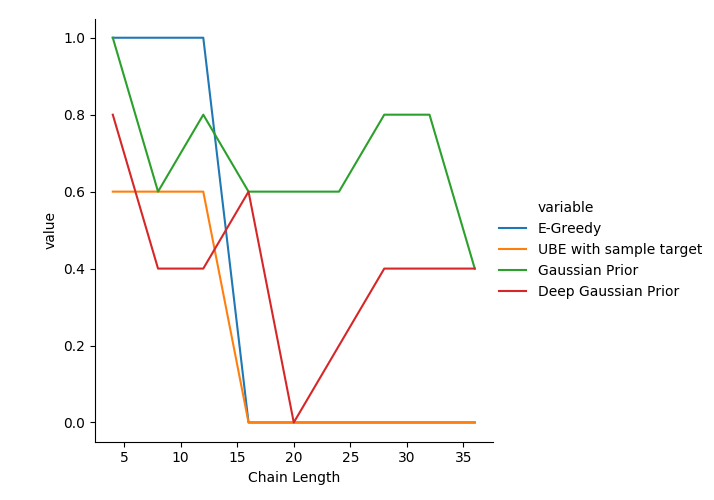
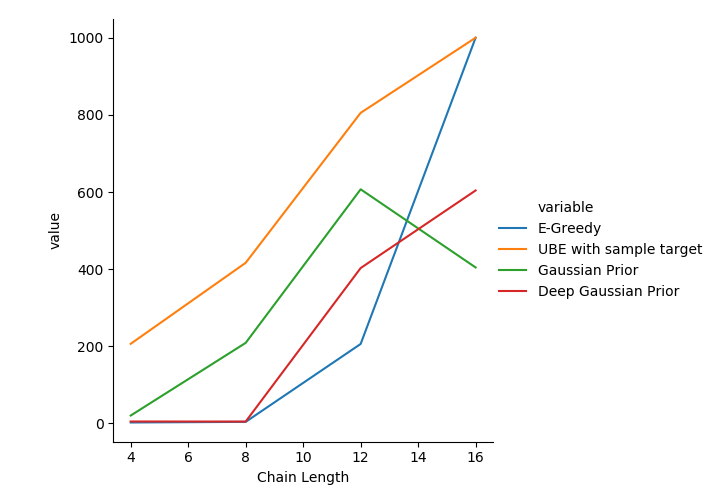
Check average regret instead of optimal policy

diff --git a/corridor/q_learner.py b/corridor/q_learner.py
@@ -12,12 +12,13 @@ def calculate_target(gamma, reward, next_q_value, done):
 def q_learner(env, Critic, episodes=10000, gamma=0.9, verbose=False):
     
     state = env.reset()
-    num_features = len(featurizer(state, 0)[0,:-1])
     critic = Critic()
 
     critic.init_model(state)
 
-    for episode in range(0,episodes):
+    average_regret = 1
+
+    for episode in range(1,episodes+1):
 
         state = env.reset()
         critic.reset()
@@ -43,12 +44,22 @@ def q_learner(env, Critic, episodes=10000, gamma=0.9, verbose=False):
             action = critic.get_action(state)
             steps += 1
 
+        average_regret -= average_regret / 20
+        average_regret += (1 - reward) / 20
+
+        if average_regret < 0.9*1: # What should "learned" be? 
+            # print("Episode:", episode)
+            # print(average_regret)
+            # print(cumulative_regret)
+            break # Check that this does not remove episode
+
+
     if verbose:
         print("Final Parameters")
         critic.print_parameters()
         critic.print_policy(num_states=env.N)
 
-    return critic.is_policy_optimal(env.N)
+    return episode
 
 
 class CriticTemplate(ABC):
@@ -81,8 +92,6 @@ class CriticTemplate(ABC):
     def is_policy_optimal(self, num_states):
         policy = [self.best_action(state)==1 for state in range(0,num_states)]
         return all(policy)
-
-
 
     ## Debug functions
     

diff --git a/corridor/experiment.py b/corridor/experiment.py
@@ -25,15 +25,14 @@ def increasing_chain_length_experiment(
         for i, N in enumerate(tqdm(results["Chain Length"])):
 
             env = Corridor(N=N, K=0)
-            successes = 0
+            sum_steps_to_learn = 0
             
             for _ in trange(0, attempts_per_chain_length):
 
-                learned_optimal_policy = q_learner(env, Critic=method, episodes=1000, verbose=True)
-                if learned_optimal_policy:
-                    successes += 1
+                steps_to_learn = q_learner(env, Critic=method, episodes=1000, verbose=True)
+                sum_steps_to_learn += steps_to_learn
 
-            results.loc[results.index[i], name] = successes/attempts_per_chain_length
+            results.loc[results.index[i], name] = sum_steps_to_learn/attempts_per_chain_length
 
     print(results)
 

diff --git a/corridor/corridor.py b/corridor/corridor.py
@@ -36,7 +36,7 @@ class Corridor(gym.Env):
 
         self.state = 0  # Start at beginning of the chain
         self.steps = 0
-        self.max_steps = N*2
+        self.max_steps = N
 
         self.action_space = spaces.Discrete(2)
         self.observation_space = spaces.Discrete(self.N)
@@ -89,10 +89,10 @@ class Corridor(gym.Env):
     def reward_calculator(self):
 
         if self.state == self.N - 1:
-            reward = normal(loc=1, scale=1) # Final state reward
+            reward = 1#normal(loc=1, scale=1) # Final state reward
         
         elif self.state == 0:
-            reward = normal(loc=0, scale=1) # State 0 reward
+            reward = 0#normal(loc=0, scale=1) # State 0 reward
 
         else:
             reward = 0

diff --git a/corridor/q_learner_critics.py b/corridor/q_learner_critics.py
@@ -137,7 +137,7 @@ class GaussianBayesCritic(CriticTemplate):
         pass
 
     def get_action(self, state):
-        action, q_value = self.get_target_action_and_q_value(state)
+        action, _ = self.get_target_action_and_q_value(state)
         return action
 
     def get_target_action_and_q_value(self, state):
